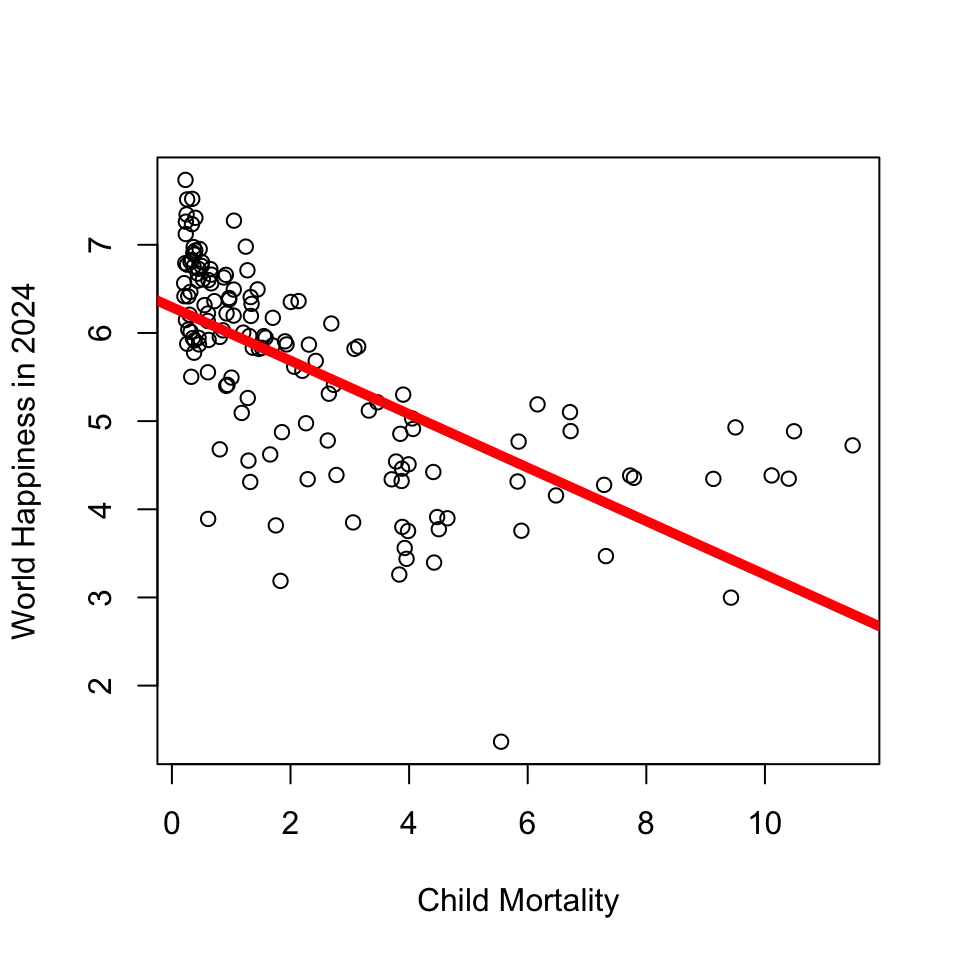
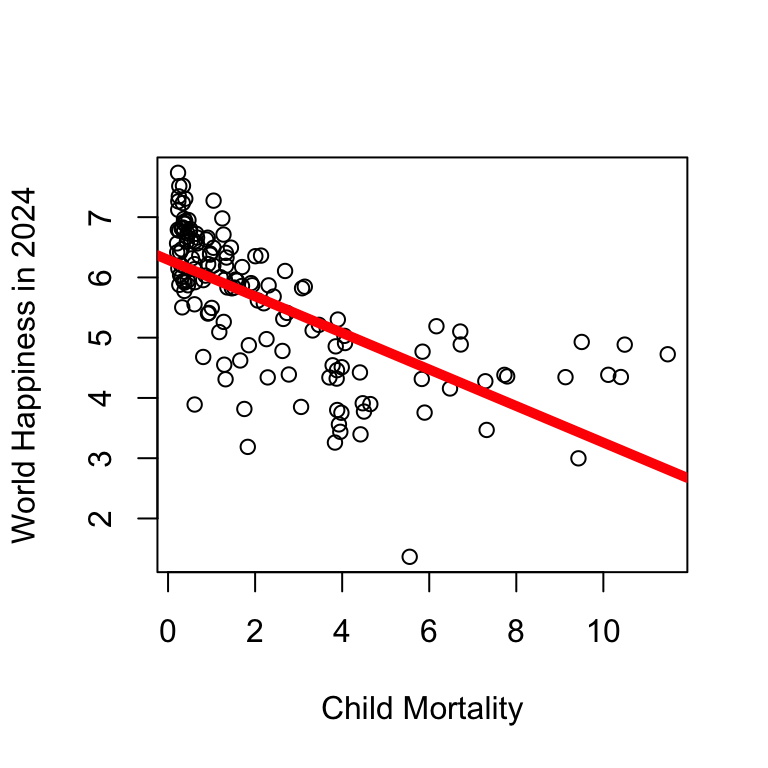
w7d

diff --git a/docs/dvcstats/slides/ch6.html b/docs/dvcstats/slides/ch6.html
@@ -182,45 +182,21 @@ window.Quarto = {
 </div>
 </div>
 </section>
-<section id="comparing-models" class="level2">
-<h2 class="anchored" data-anchor-id="comparing-models">Comparing Models</h2>
+<section id="comparing-models" class="level2 smaller">
+<h2 class="smaller anchored" data-anchor-id="comparing-models">Comparing Models</h2>
 <div class="columns">
 <div class="column" style="width:50%;">
 <div class="cell">
 <div class="cell-output-display">
 <div>
 <figure class="figure">
-<p><img src="ch6_files/figure-html/unnamed-chunk-3-1.png" class="img-fluid figure-img" width="480"></p>
+<p><img src="ch6_files/figure-html/unnamed-chunk-3-1.png" class="img-fluid figure-img" width="384"></p>
 </figure>
 </div>
 </div>
-<div class="cell-output-display">
-<table class="caption-top table table-sm table-striped small">
-<colgroup>
-<col style="width: 50%">
-<col style="width: 50%">
-</colgroup>
-<thead>
-<tr class="header">
-<th style="text-align: left;"></th>
-<th style="text-align: center;">Linear Model 1</th>
-</tr>
-</thead>
-<tbody>
-<tr class="odd">
-<td style="text-align: left;">(Intercept)</td>
-<td style="text-align: center;">6.29</td>
-</tr>
-<tr class="even">
-<td style="text-align: left;">d$Child.Mortality</td>
-<td style="text-align: center;">-0.30</td>
-</tr>
-<tr class="odd">
-<td style="text-align: left;">RSQUARED</td>
-<td style="text-align: center;">0.45</td>
-</tr>
-</tbody>
-</table>
+<div class="cell-output cell-output-stdout">
+<pre><code>      (Intercept) d$Child.Mortality          RSQUARED 
+             6.29             -0.30              0.45 </code></pre>
 </div>
 </div>
 </div><div class="column" style="width:50%;">
@@ -228,37 +204,13 @@ window.Quarto = {
 <div class="cell-output-display">
 <div>
 <figure class="figure">
-<p><img src="ch6_files/figure-html/unnamed-chunk-4-1.png" class="img-fluid figure-img" width="480"></p>
+<p><img src="ch6_files/figure-html/unnamed-chunk-4-1.png" class="img-fluid figure-img" width="384"></p>
 </figure>
 </div>
 </div>
-<div class="cell-output-display">
-<table class="caption-top table table-sm table-striped small">
-<colgroup>
-<col style="width: 50%">
-<col style="width: 50%">
-</colgroup>
-<thead>
-<tr class="header">
-<th style="text-align: left;"></th>
-<th style="text-align: center;">Linear Model 2</th>
-</tr>
-</thead>
-<tbody>
-<tr class="odd">
-<td style="text-align: left;">(Intercept)</td>
-<td style="text-align: center;">0.12</td>
-</tr>
-<tr class="even">
-<td style="text-align: left;">d$SWLS_23</td>
-<td style="text-align: center;">0.99</td>
-</tr>
-<tr class="odd">
-<td style="text-align: left;">RSQUARED</td>
-<td style="text-align: center;">0.99</td>
-</tr>
-</tbody>
-</table>
+<div class="cell-output cell-output-stdout">
+<pre><code>(Intercept)   d$SWLS_23    RSQUARED 
+       0.12        0.99        0.99 </code></pre>
 </div>
 </div>
 </div>

diff --git a/docs/dvcstats/slides/ch6_slides.html b/docs/dvcstats/slides/ch6_slides.html
@@ -179,7 +179,7 @@
 </div></div>
 </section>
 
-<section id="comparing-models" class="title-slide slide level2 center">
+<section id="comparing-models" class="title-slide slide level2 smaller center">
 <h2>Comparing Models</h2>
 <div class="columns">
 <div class="column" style="width:50%;">
@@ -187,37 +187,13 @@
 <div class="cell-output-display">
 <div>
 <figure>
-<p><img data-src="ch6_files/figure-html/unnamed-chunk-3-1.png" width="480"></p>
+<p><img data-src="ch6_files/figure-html/unnamed-chunk-3-1.png" width="384"></p>
 </figure>
 </div>
 </div>
-<div class="cell-output-display">
-<table class="caption-top">
-<colgroup>
-<col style="width: 50%">
-<col style="width: 50%">
-</colgroup>
-<thead>
-<tr class="header">
-<th style="text-align: left;"></th>
-<th style="text-align: center;">Linear Model 1</th>
-</tr>
-</thead>
-<tbody>
-<tr class="odd">
-<td style="text-align: left;">(Intercept)</td>
-<td style="text-align: center;">6.29</td>
-</tr>
-<tr class="even">
-<td style="text-align: left;">d$Child.Mortality</td>
-<td style="text-align: center;">-0.30</td>
-</tr>
-<tr class="odd">
-<td style="text-align: left;">RSQUARED</td>
-<td style="text-align: center;">0.45</td>
-</tr>
-</tbody>
-</table>
+<div class="cell-output cell-output-stdout">
+<pre><code>      (Intercept) d$Child.Mortality          RSQUARED 
+             6.29             -0.30              0.45 </code></pre>
 </div>
 </div>
 </div><div class="column" style="width:50%;">
@@ -225,37 +201,13 @@
 <div class="cell-output-display">
 <div>
 <figure>
-<p><img data-src="ch6_files/figure-html/unnamed-chunk-4-1.png" width="480"></p>
+<p><img data-src="ch6_files/figure-html/unnamed-chunk-4-1.png" width="384"></p>
 </figure>
 </div>
 </div>
-<div class="cell-output-display">
-<table class="caption-top">
-<colgroup>
-<col style="width: 50%">
-<col style="width: 50%">
-</colgroup>
-<thead>
-<tr class="header">
-<th style="text-align: left;"></th>
-<th style="text-align: center;">Linear Model 2</th>
-</tr>
-</thead>
-<tbody>
-<tr class="odd">
-<td style="text-align: left;">(Intercept)</td>
-<td style="text-align: center;">0.12</td>
-</tr>
-<tr class="even">
-<td style="text-align: left;">d$SWLS_23</td>
-<td style="text-align: center;">0.99</td>
-</tr>
-<tr class="odd">
-<td style="text-align: left;">RSQUARED</td>
-<td style="text-align: center;">0.99</td>
-</tr>
-</tbody>
-</table>
+<div class="cell-output cell-output-stdout">
+<pre><code>(Intercept)   d$SWLS_23    RSQUARED 
+       0.12        0.99        0.99 </code></pre>
 </div>
 </div>
 </div></div>

diff --git a/docs/dvcstats/W7_CH6.html b/docs/dvcstats/W7_CH6.html
@@ -134,6 +134,7 @@ ul.task-list li input[type="checkbox"] {
 <ul>
 <li><strong>Office Hours :</strong> normal schedule this week.</li>
 <li><strong>Lab Grades Updated :</strong> thanks for your patience!</li>
+<li><strong>Brain Exam Grades Soon :</strong> whoop.</li>
 </ul>
 </div><div class="column" style="width:50%;">
 <ul>
@@ -160,7 +161,7 @@ ul.task-list li input[type="checkbox"] {
 <h3 class="anchored" data-anchor-id="for-next-week">For Next Week</h3>
 <ul>
 <li><p><strong>Complete <a href="../dvcstats/labs/Lab5.html">Lab 5</a></strong></p></li>
-<li><p><strong>Read <a href="https://catterson.github.io/ystats/chapters/7R_CategoricalIV.html">Chapter 7</a></strong> and <strong>Complete Quiz 7</strong> (on Canvas)</p></li>
+<li><p><strong>Read <a href="https://catterson.github.io/ystats/chapters/7R_CategoricalIV.html">Chapter 7</a></strong> and <strong>Complete <a href="https://www.dropbox.com/scl/fi/eoy6qy1wa8ngzc84uw0v3/Quiz7.R?rlkey=grvjqt5mlkx1jfo236a4o2g2i&amp;dl=0">Quiz 7</a></strong> (on Canvas)</p></li>
 </ul>
 
 
